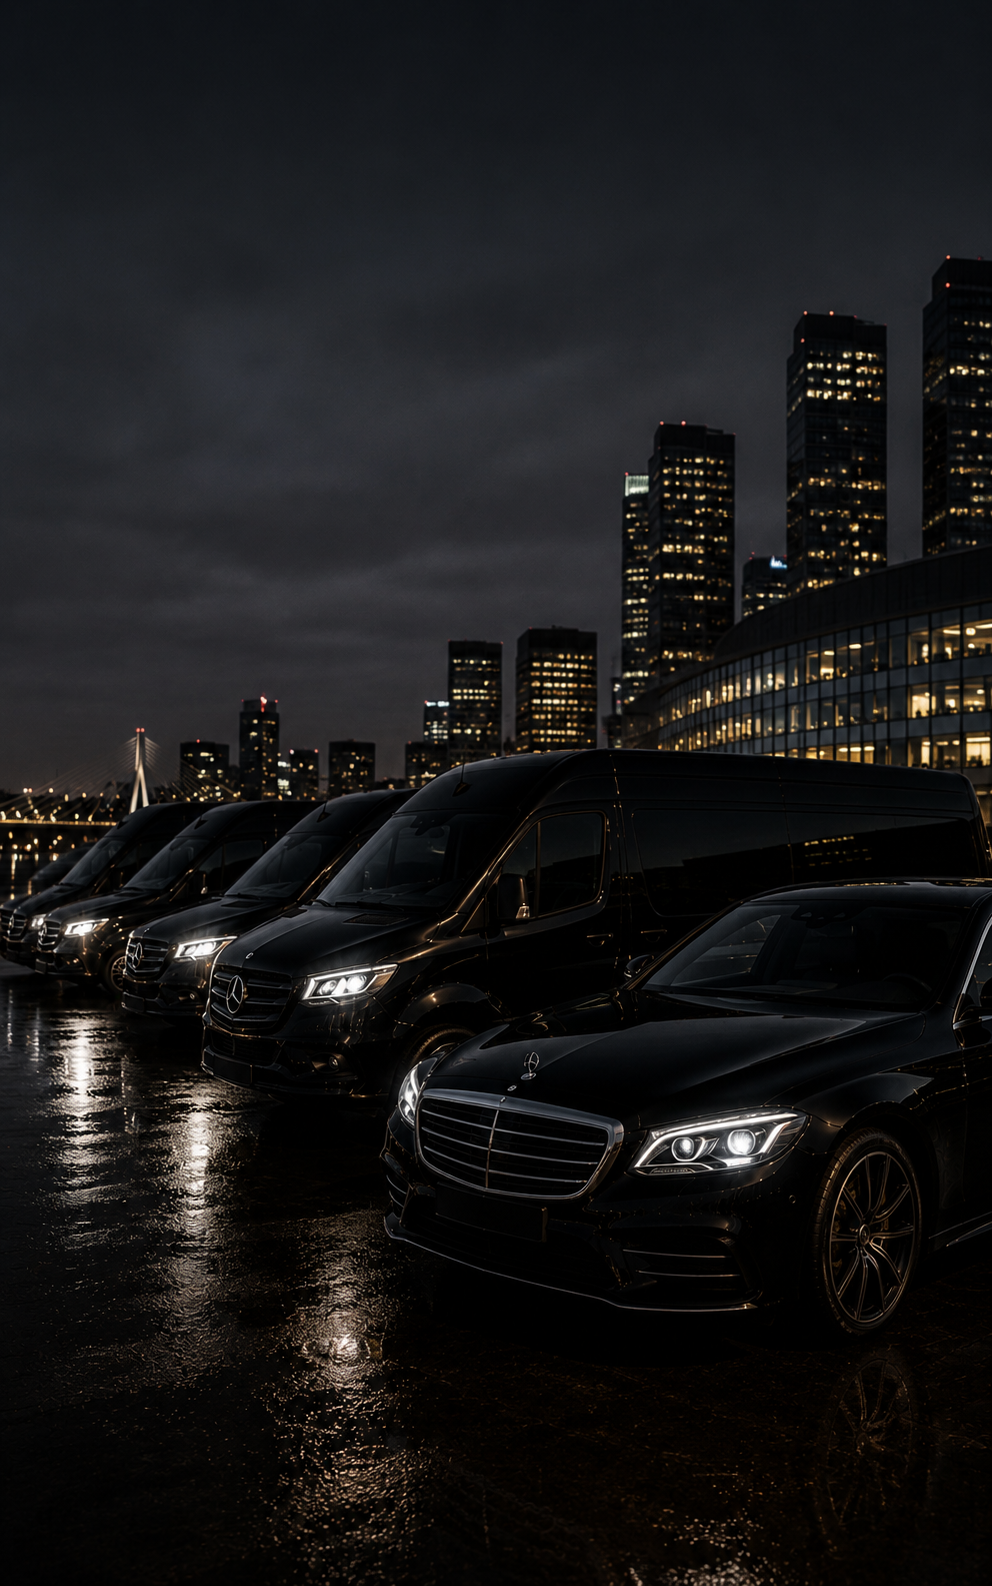
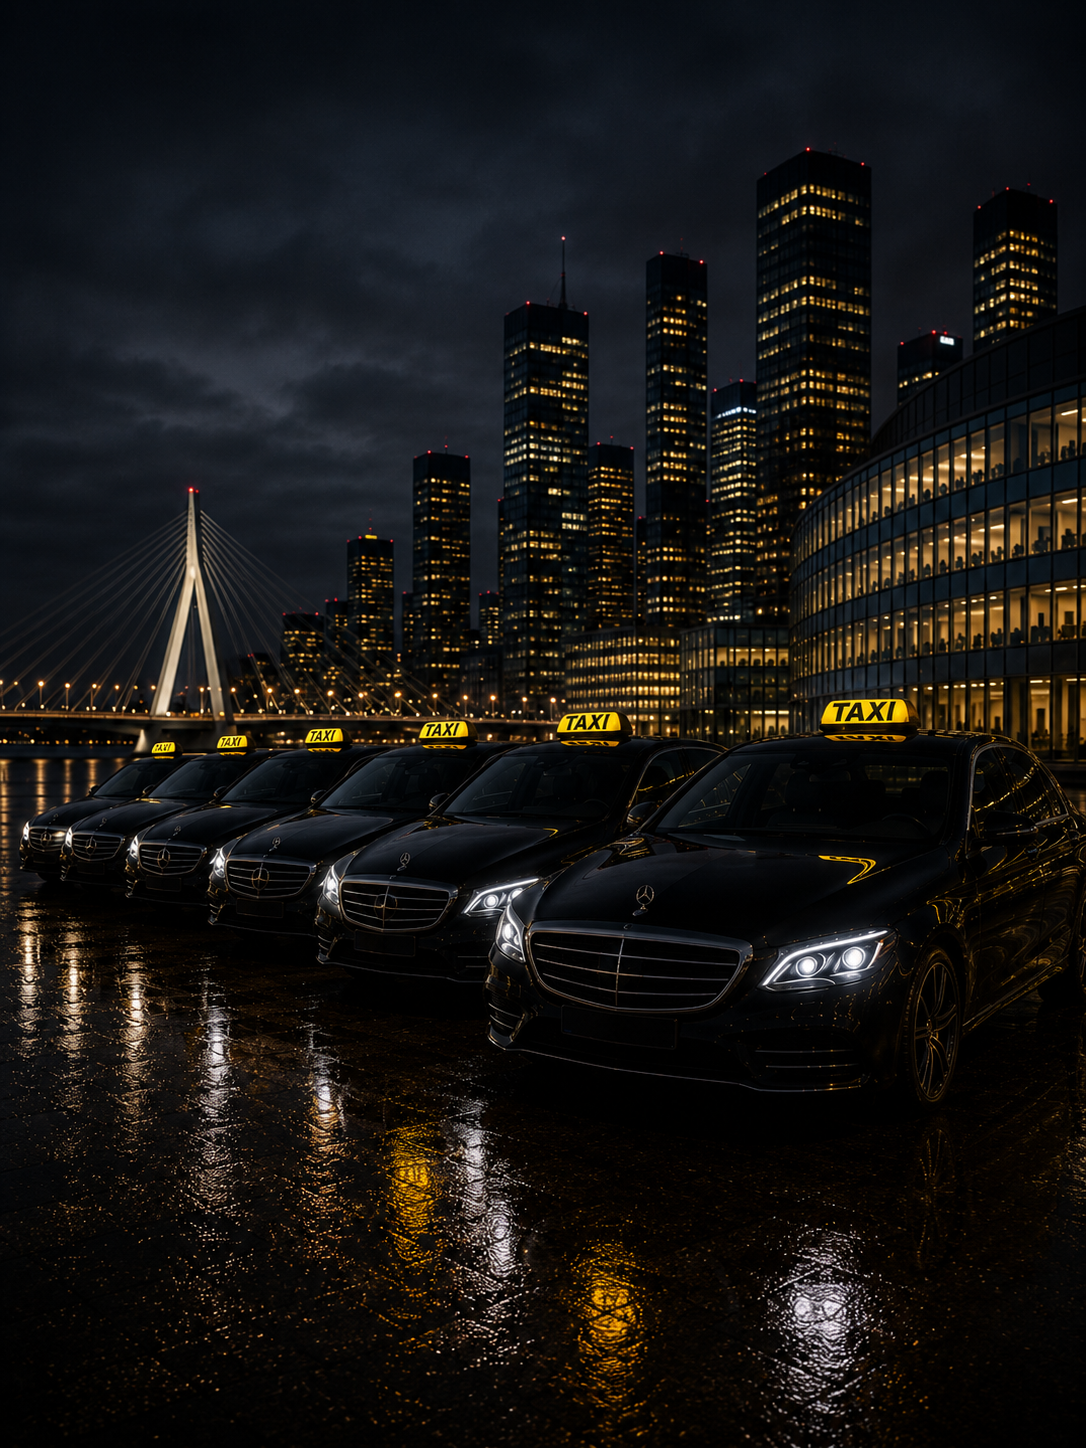
Use taxi fleet business tablet headers

diff --git a/lib/main.dart b/lib/main.dart
@@ -8320,9 +8320,20 @@ class _BusinessHomePageState extends State<BusinessHomePage> {
                         screenClass == FluxidiScreenClass.desktop) &&
                     W < H &&
                     H >= 900;
-                final businessHeaderHeight = isTabletPortrait
+                final isTabletLandscape =
+                    (screenClass == FluxidiScreenClass.tablet ||
+                        screenClass == FluxidiScreenClass.desktop) &&
+                    W > H &&
+                    H >= 700;
+                final usesTabletHeader = isTabletPortrait || isTabletLandscape;
+                final businessHeaderHeight = isTabletLandscape
+                    ? clampDouble(H * 0.26, 280.0, 330.0)
+                    : isTabletPortrait
                     ? clampDouble(H * 0.23, 300.0, 360.0)
                     : null;
+                final businessHeaderAsset = isTabletLandscape
+                    ? 'assets/fluxidi/zakelijke_tablet_header_foto_landscape.png'
+                    : 'assets/fluxidi/zakelijke_tablet_header_foto.png';
                 final businessQuickActionCardHeight = isTabletPortrait
                     ? clampDouble(H * 0.092, 118.0, 132.0)
                     : 132.0;
@@ -8342,7 +8353,7 @@ class _BusinessHomePageState extends State<BusinessHomePage> {
                     businessListBottomPadding,
                   ),
                   children: [
-                    if (isTabletPortrait)
+                    if (usesTabletHeader)
                       Container(
                         height: businessHeaderHeight,
                         clipBehavior: Clip.antiAlias,
@@ -8356,8 +8367,11 @@ class _BusinessHomePageState extends State<BusinessHomePage> {
                           fit: StackFit.expand,
                           children: [
                             Image.asset(
-                              'assets/fluxidi/zakelijke_tablet_header_foto.png',
+                              businessHeaderAsset,
                               fit: BoxFit.cover,
+                              alignment: isTabletLandscape
+                                  ? Alignment.centerRight
+                                  : Alignment.center,
                               errorBuilder: (_, __, ___) => const DecoratedBox(
                                 decoration: BoxDecoration(
                                   gradient: LinearGradient(
